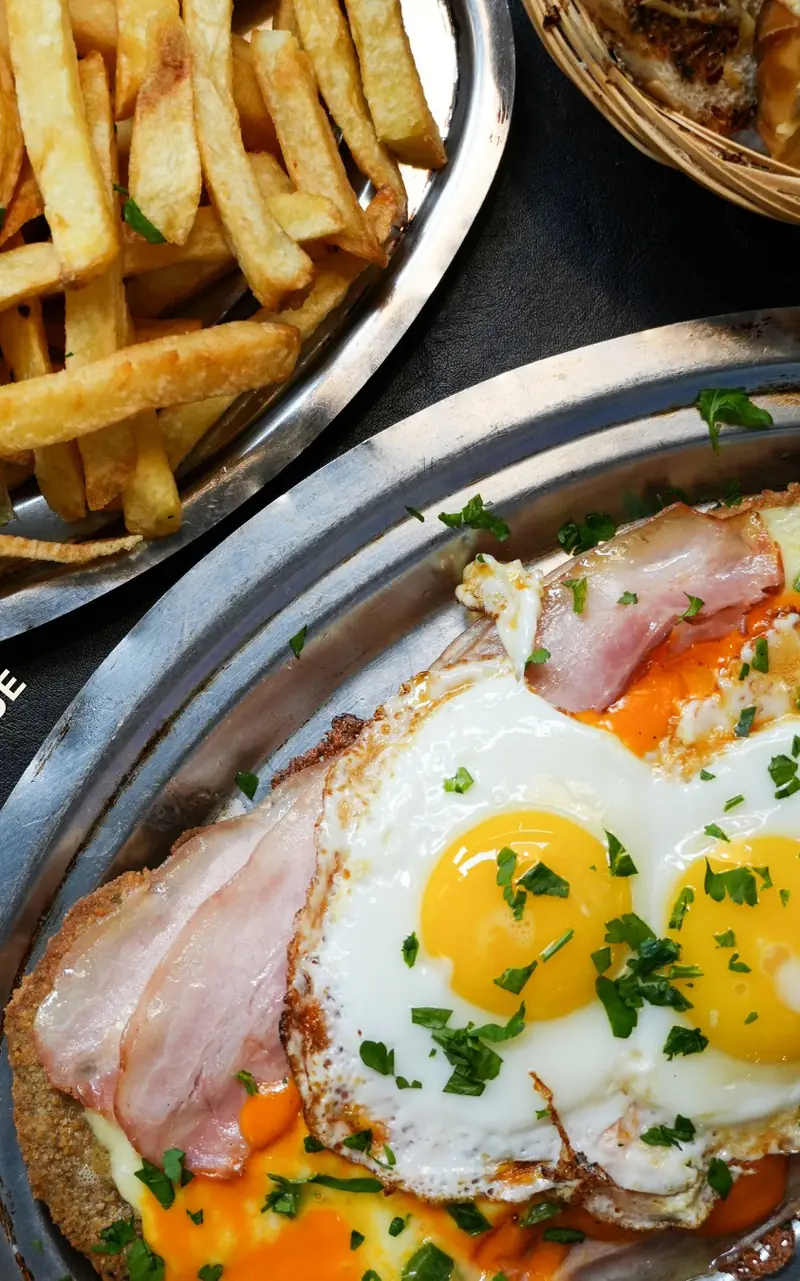
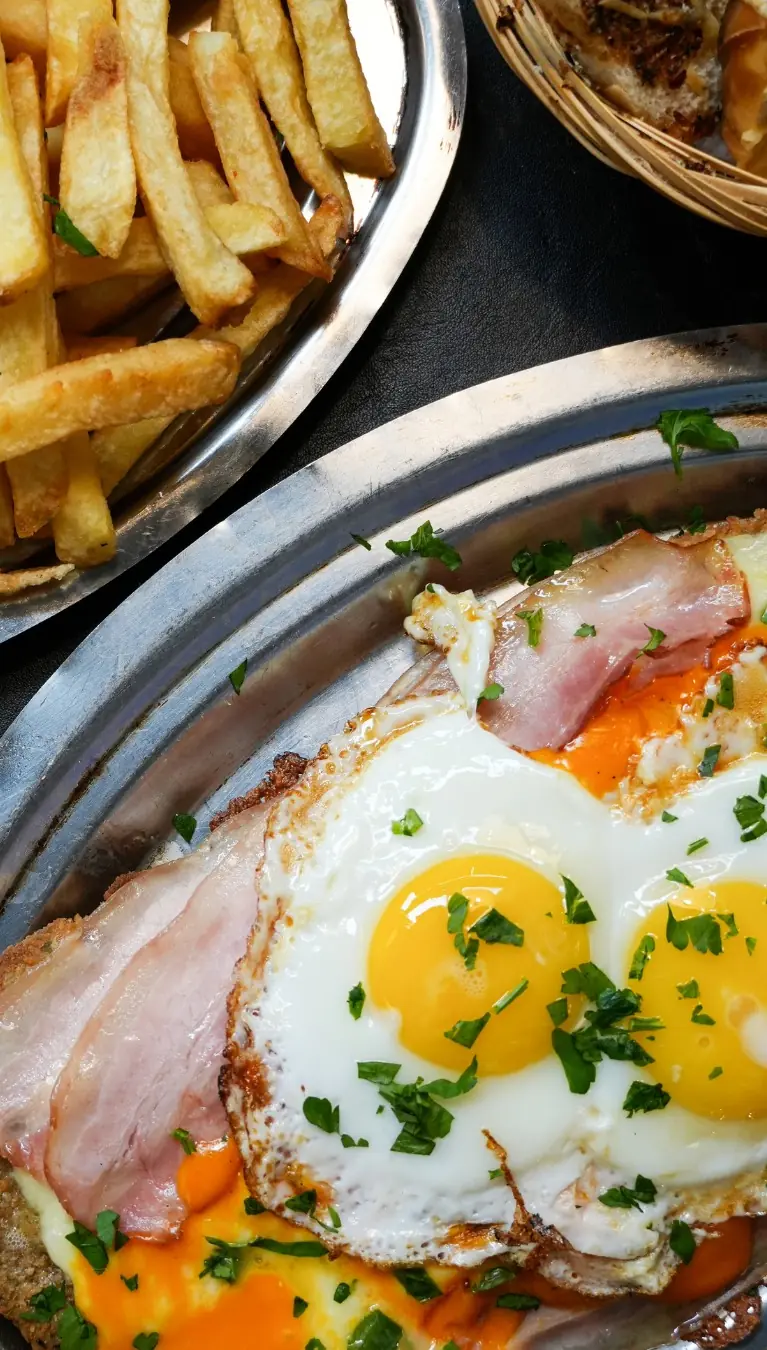
Cancha sin zoom y de tamaño fijo, talón que se corta hacia abajo, sin marcador, horarios 8:00 a 24:00, foto de la Milanesa Parque sin texto
Claude-Session: https://claude.ai/code/session_018KHp4jUhkHtijVhNrcKuqc

diff --git a/css/style.css b/css/style.css
@@ -294,23 +294,22 @@ ul { margin: 0; padding: 0; list-style: none; }
 .cancha__lineas--h { display: none; }
 .cancha__flecha { stroke: rgba(255,255,255,.55); stroke-dasharray: 7 8; }
 .cancha__fichas { position: absolute; inset: 0; }
-.ficha { position: absolute; left: var(--mx); top: var(--my); width: 52px; height: 52px; margin: -26px 0 0 -26px; padding: 0; border: 3px solid var(--crema); border-radius: 50%; background: #2a3b28 center / cover no-repeat; cursor: pointer; box-shadow: 0 6px 14px rgba(0,0,0,.45); transition: transform .25s cubic-bezier(.3, 1.4, .5, 1), border-color .2s, box-shadow .2s; }
+.ficha { position: absolute; left: var(--mx); top: var(--my); width: 52px; height: 52px; margin: -26px 0 0 -26px; padding: 0; border: 3px solid var(--crema); border-radius: 50%; background: #2a3b28 center / cover no-repeat; cursor: pointer; box-shadow: 0 6px 14px rgba(0,0,0,.45); transition: border-color .2s, box-shadow .2s; }
 .ficha__n { position: absolute; right: -9px; bottom: -7px; min-width: 24px; height: 24px; padding: 0 4px; border-radius: 12px; background: var(--oro); color: var(--noche); font: 400 14px/24px var(--f-tit); text-align: center; }
 .ficha__nom { display: none; }
-.ficha.activa { border-color: var(--oro); transform: scale(1.16); box-shadow: 0 0 0 5px rgba(201,162,74,.35), 0 8px 18px rgba(0,0,0,.5); }
-.ficha:active { transform: scale(.94); }
+.ficha.activa { border-color: var(--oro); box-shadow: 0 0 0 5px rgba(201,162,74,.4), 0 6px 14px rgba(0,0,0,.45); }
 .js .ficha { opacity: 0; scale: .4; }
-.js .cancha.visto .ficha { opacity: 1; scale: 1; transition: opacity .4s ease calc(var(--i) * 55ms), scale .5s cubic-bezier(.3, 1.5, .5, 1) calc(var(--i) * 55ms), transform .25s cubic-bezier(.3, 1.4, .5, 1), border-color .2s, box-shadow .2s; }
+.js .cancha.visto .ficha { opacity: 1; scale: 1; transition: opacity .4s ease calc(var(--i) * 55ms), scale .5s cubic-bezier(.3, 1.5, .5, 1) calc(var(--i) * 55ms), border-color .2s, box-shadow .2s; }
 .js .cancha__flecha { stroke-dashoffset: 400; stroke-dasharray: 400; }
 .js .cancha.visto .cancha__flecha { stroke-dashoffset: 0; transition: stroke-dashoffset 1.4s ease .9s; }
-.ficha-plato { background: var(--crema); color: var(--noche); border-radius: 6px; overflow: hidden; display: grid; grid-template-columns: 116px minmax(0, 1fr); box-shadow: var(--sombra); min-height: 214px; }
+.ficha-plato { background: var(--crema); color: var(--noche); border-radius: 6px; overflow: hidden; display: grid; grid-template-columns: 116px minmax(0, 1fr); box-shadow: var(--sombra); height: 250px; }
 .ficha-plato__foto { position: relative; background: #d8ccb6; }
 .ficha-plato__foto img { position: absolute; inset: 0; width: 100%; height: 100%; object-fit: cover; object-position: 50% 62%; transition: opacity .3s; }
 .ficha-plato__foto img.cambia { opacity: 0; }
 .ficha-plato__num { position: absolute; left: 10px; top: 10px; min-width: 40px; height: 40px; border-radius: 20px; background: var(--oro); font: 400 22px/40px var(--f-tit); text-align: center; color: var(--noche); }
 .ficha-plato__txt { padding: 16px 16px 14px; display: flex; flex-direction: column; gap: 4px; min-width: 0; }
 .ficha-plato__pos { font: 800 12px/1.3 var(--f-txt); letter-spacing: .18em; text-transform: uppercase; color: var(--bordo); }
-.ficha-plato__nom { font: 400 26px/1.02 var(--f-tit); text-transform: uppercase; overflow-wrap: anywhere; }
+.ficha-plato__nom { font: 400 26px/1.02 var(--f-tit); text-transform: uppercase; overflow-wrap: anywhere; display: -webkit-box; -webkit-line-clamp: 2; -webkit-box-orient: vertical; overflow: hidden; min-height: 2.04em; }
 .ficha-plato__desc { font-size: 14.5px; line-height: 1.5; color: var(--tinta); display: -webkit-box; -webkit-line-clamp: 3; -webkit-box-orient: vertical; overflow: hidden; min-height: 4.5em; }
 .ficha-plato__acc { margin-top: auto; display: flex; align-items: center; justify-content: space-between; gap: 10px; flex-wrap: wrap; padding-top: 8px; }
 .ficha-plato__precio { font-weight: 800; font-size: 15px; color: var(--verde); }
@@ -321,19 +320,20 @@ ul { margin: 0; padding: 0; list-style: none; }
 .suplente { flex: 0 0 auto; display: flex; align-items: center; gap: 10px; min-height: 56px; padding: 6px 16px 6px 6px; border-radius: 999px; border: 1.5px solid rgba(242,235,221,.35); background: rgba(14,13,12,.35); color: var(--crema); cursor: pointer; font-weight: 700; font-size: 15px; scroll-snap-align: start; transition: border-color .2s, background-color .2s; }
 .suplente img { width: 44px; height: 44px; border-radius: 50%; object-fit: cover; }
 .suplente.activa { border-color: var(--oro); background: rgba(201,162,74,.18); }
-@media (hover: hover) { .ficha:hover { transform: scale(1.12); border-color: var(--oro); } .suplente:hover { border-color: var(--crema); } }
+@media (hover: hover) { .ficha:hover { border-color: var(--oro); } .suplente:hover { border-color: var(--crema); } }
 @media (min-width: 640px) { .ficha-plato { grid-template-columns: 200px minmax(0, 1fr); } .ficha-plato__nom { font-size: 30px; } }
 @media (min-width: 900px) {
-  .formacion__in { grid-template-columns: minmax(0, 1.55fr) minmax(0, 1fr); gap: 40px; align-items: stretch; }
+  .formacion__in { grid-template-columns: minmax(0, 1.55fr) minmax(0, 1fr); gap: 40px; align-items: start; }
+  .cancha { align-self: start; }
   .cancha { aspect-ratio: 1000 / 640; }
   .cancha__lineas--v { display: none; } .cancha__lineas--h { display: block; }
   .ficha { left: var(--dx); top: var(--dy); width: 66px; height: 66px; margin: -33px 0 0 -33px; }
   .ficha__n { width: 28px; height: 28px; line-height: 28px; font-size: 16px; border-radius: 14px; }
   .ficha__nom { display: block; position: absolute; left: 50%; top: calc(100% + 8px); transform: translateX(-50%); width: 130px; text-align: center; font: 700 14px/1.2 var(--f-txt); color: #fff; text-shadow: 0 1px 3px rgba(0,0,0,.8); pointer-events: none; }
-  .ficha-plato { grid-template-columns: 1fr; grid-template-rows: minmax(0, 1fr) auto; }
-  .ficha-plato__foto { min-height: 260px; }
-  .ficha-plato__txt { padding: 22px 26px 24px; gap: 8px; min-height: 230px; }
-  .ficha-plato__nom { font-size: 38px; }
+  .ficha-plato { grid-template-columns: 1fr; grid-template-rows: minmax(0, 1fr) 290px; height: auto; aspect-ratio: auto; align-self: stretch; }
+  .ficha-plato__foto { min-height: 0; }
+  .ficha-plato__txt { padding: 22px 26px 24px; gap: 8px; height: 290px; }
+  .ficha-plato__nom { font-size: 34px; }
   .ficha-plato__desc { font-size: 16px; }
 }
 
@@ -433,7 +433,7 @@ ul { margin: 0; padding: 0; list-style: none; }
 .entrada__artista { font: 400 clamp(32px, 8vw, 54px)/1 var(--f-tit); text-transform: uppercase; overflow-wrap: anywhere; }
 .entrada__fecha { font-weight: 700; font-size: 16px; }
 .entrada__lugar { font-size: 13.5px; opacity: .92; }
-.entrada__talon { position: relative; flex: 0 0 104px; border-left: 3px dashed rgba(242,235,221,.75); display: flex; flex-direction: column; align-items: center; justify-content: center; gap: 2px; background: rgba(0,0,0,.16); border-radius: 0 8px 8px 0; cursor: grab; touch-action: pan-y; user-select: none; -webkit-user-select: none; transition: transform .45s cubic-bezier(.3, .8, .3, 1), opacity .3s; }
+.entrada__talon { position: relative; flex: 0 0 104px; border-left: 3px dashed rgba(242,235,221,.75); display: flex; flex-direction: column; align-items: center; justify-content: center; gap: 2px; background: rgba(0,0,0,.16); border-radius: 0 8px 8px 0; cursor: grab; touch-action: none; user-select: none; -webkit-user-select: none; transform-origin: 0 0; transition: transform .45s cubic-bezier(.3, .8, .3, 1), opacity .35s; }
 .entrada__talon:active { cursor: grabbing; }
 .entrada__talon-k { font: 800 12px/1.2 var(--f-txt); letter-spacing: .16em; text-transform: uppercase; }
 .entrada__talon b { font: 400 44px/1 var(--f-tit); }
@@ -442,7 +442,9 @@ ul { margin: 0; padding: 0; list-style: none; }
 .entrada::before, .entrada::after { content: ''; position: absolute; right: 90px; width: 26px; height: 26px; border-radius: 50%; background: var(--noche); }
 .entrada::before { top: -13px; } .entrada::after { bottom: -13px; }
 .entrada__talon.arrastrando { transition: none; }
-.entrada__talon.cortado { transform: translate(60px, 30px) rotate(14deg); opacity: 0; }
+.entrada__talon.cortado { transform: translateY(70px) rotate(24deg); opacity: 0; transition: transform .5s cubic-bezier(.5, 0, .75, 0), opacity .45s ease .05s; }
+.entrada__talon.vuelve { animation: talonVuelve .45s ease both; }
+@keyframes talonVuelve { from { opacity: 0; transform: translateY(-8px); } to { opacity: 1; transform: none; } }
 .entrada__acc { display: flex; flex-wrap: wrap; align-items: center; gap: 12px 18px; }
 .entrada__pista { font-size: 14px; color: var(--gris); }
 @media (min-width: 900px) {
@@ -510,17 +512,10 @@ ul { margin: 0; padding: 0; list-style: none; }
 /* ================= DÓNDE + MARCADOR ================= */
 .donde { background: var(--noche); }
 .donde__in { display: grid; gap: 44px; }
-.marcador { background: #070706; border: 2px solid #2a271f; border-radius: 8px; padding: 20px 18px; display: flex; flex-direction: column; align-items: center; gap: 10px; box-shadow: inset 0 0 0 6px #121109; cursor: default; }
-.marcador__eq { display: grid; grid-template-columns: 1fr 44px 1fr; width: 100%; max-width: 380px; text-align: center; font: 800 13px/1.2 var(--f-txt); letter-spacing: .2em; text-transform: uppercase; color: var(--gris); }
-.marcador__goles { display: grid; grid-template-columns: 1fr 44px 1fr; width: 100%; max-width: 380px; align-items: center; text-align: center; }
-.marcador__goles b { font: 400 48px/1 var(--f-tit); color: #ffb347; }
-.marcador__n { font: 400 clamp(64px, 18vw, 100px)/1.12 var(--f-tit); color: #ffb347; background: #1d1b15; border-radius: 4px; text-shadow: 0 0 14px rgba(255,179,71,.45); display: block; }
-.marcador__n.gira { animation: gira .5s ease; }
-@keyframes gira { 0% { transform: rotateX(0); } 50% { transform: rotateX(90deg); } 100% { transform: rotateX(0); } }
-.marcador__estado { font-weight: 700; font-size: 16px; display: flex; align-items: center; gap: 10px; min-height: 1.6em; text-align: center; }
-.marcador__estado::before { content: ''; width: 10px; height: 10px; border-radius: 50%; background: #5fd06b; flex: none; }
-.marcador__estado.cerrado::before { background: var(--oro); }
-.horarios { margin-top: 26px; display: grid; gap: 0; }
+.donde__estado { font-weight: 700; font-size: 17px; display: flex; align-items: center; gap: 10px; min-height: 1.6em; margin-top: 4px; }
+.donde__estado::before { content: ''; width: 10px; height: 10px; border-radius: 50%; background: #5fd06b; flex: none; }
+.donde__estado.cerrado::before { background: var(--oro); }
+.horarios { margin-top: 18px; display: grid; gap: 0; }
 .horarios li { display: flex; justify-content: space-between; gap: 16px; padding: 11px 0; border-bottom: 1px solid rgba(242,235,221,.12); font-size: 16px; }
 .horarios li.hoy { color: var(--oro); font-weight: 700; }
 .donde__dire { font-size: 17px; margin-bottom: 18px; color: #e4dccd; }
@@ -532,7 +527,6 @@ ul { margin: 0; padding: 0; list-style: none; }
 .donde__tel a { color: var(--crema); font-weight: 700; }
 @media (min-width: 900px) {
   .donde__in { grid-template-columns: minmax(0, 1fr) minmax(0, 1.1fr); gap: clamp(48px, 6vw, 96px); align-items: start; }
-  .marcador { padding: 28px; }
 }
 
 /* ================= FOOTER ================= */

diff --git a/js/app.js b/js/app.js
@@ -124,31 +124,21 @@ function arrastre() { $$('[data-arrastre]').forEach(arrastrable); }
 // =====================================================================
 // HORARIOS, ESTADO Y MARCADOR
 // =====================================================================
+// 24 h y siempre con minutos: "8:00 a 24:00"; la medianoche al cierre se lee "24:00"
+const hora = (h, cierre = false) => (h === '00:00' && cierre) ? '24:00' : h.replace(/^0([1-9]):/, '$1:');
 function horarios() {
   const H = K.config.horarios;
   const dias = [['mar', 'Martes'], ['mie', 'Miércoles'], ['jue', 'Jueves'], ['vie', 'Viernes'], ['sab', 'Sábado'], ['dom', 'Domingo'], ['lun', 'Lunes']];
   const hoy = ['dom', 'lun', 'mar', 'mie', 'jue', 'vie', 'sab'][ahoraBA().dow];
-  const fmt = (h) => h === '00:00' ? '00' : h.replace(/^0([1-9])(?=:)/, '$1').replace(/^(\d{1,2}):00$/, '$1');
-  $('[data-horarios]').innerHTML = dias.map(([k, n]) => `<li class="${k === hoy ? 'hoy' : ''}"><span>${n}${k === hoy ? ' · hoy' : ''}</span><span>${(H[k] || []).length ? H[k].map(f => f.map(fmt).join(' a ')).join(' · ') : 'Cerrado'}</span></li>`).join('');
-  const est = $('[data-estado]'); const mEst = $('[data-marcador-estado]');
+  $('[data-horarios]').innerHTML = dias.map(([k, n]) => `<li class="${k === hoy ? 'hoy' : ''}"><span>${n}${k === hoy ? ' · hoy' : ''}</span><span>${(H[k] || []).length ? H[k].map(([d, c]) => `${hora(d)} a ${hora(c, true)}`).join(' · ') : 'Cerrado'}</span></li>`).join('');
+  const est = $('[data-estado]'); const dEst = $('[data-donde-estado]');
   const pintar = () => {
-    const s = K.abierto(); const a = ahoraBA();
-    est.hidden = false; est.classList.toggle('cerrado', !s.abierto);
-    est.textContent = s.abierto ? `Abierto ahora · cierra ${s.cierra}` : s.abre ? `Cerrado · abre a las ${s.abre}` : 'Cerrado hoy';
-    const tiempo = a.min < 16 * 60 && a.min >= 5 * 60 ? '1º tiempo' : '2º tiempo';
-    mEst.classList.toggle('cerrado', !s.abierto);
-    mEst.textContent = s.abierto ? `Abierto · ${tiempo} · cierra ${s.cierra}` : s.abre ? `Entretiempo · volvemos a las ${s.abre}` : 'Entretiempo · volvemos mañana';
-    marcador(s.abierto);
+    const s = K.abierto();
+    const txt = s.abierto ? `Abierto ahora · cierra a las ${hora(s.cierra, true)}` : s.abre ? `Cerrado ahora · abre a las ${hora(s.abre)}` : 'Cerrado hoy';
+    est.hidden = false; est.classList.toggle('cerrado', !s.abierto); est.textContent = txt;
+    dEst.classList.toggle('cerrado', !s.abierto); dEst.textContent = txt;
   };
   pintar(); setInterval(pintar, 60_000);
-}
-let golesPintados = null;
-function marcador(abierto) {
-  const g = abierto ? 1 : 0; if (golesPintados === g) return; golesPintados = g;
-  const box = $('[data-marcador]'); const a = $('[data-gol-a]'); const b = $('[data-gol-b]');
-  const poner = () => { a.textContent = String(g); b.textContent = '0'; if (!reduce) { a.classList.remove('gira'); void a.offsetWidth; a.classList.add('gira'); } };
-  if (box.classList.contains('visto')) { poner(); return; }
-  new IntersectionObserver((es, o) => { if (es[0].isIntersecting) { o.disconnect(); setTimeout(poner, 500); } }, { threshold: .5 }).observe(box);
 }
 
 // =====================================================================
@@ -307,21 +297,23 @@ function pintarShow() {
 function reservarShow() { K.reservas?.abrir({ fecha: showFecha || proximoDia([6], 1290), hora: '21:30', personas: 2 }); }
 function show() {
   $('[data-reservar-show]').addEventListener('click', reservarShow);
+  // el talón se corta tirando hacia abajo: gira desde la línea punteada y cae (un toque o Enter también lo corta)
   const talon = $('[data-talon]');
-  let x0 = 0, dx = 0, activo = false, id = null, cortando = false;
+  let y0 = 0, dy = 0, activo = false, id = null, cortando = false;
+  const volver = () => { talon.classList.remove('arrastrando'); talon.style.transform = ''; };
   const cortar = () => {
-    if (cortando) return; cortando = true; talon.classList.remove('arrastrando'); talon.style.transform = ''; talon.classList.add('cortado');
-    setTimeout(reservarShow, reduce ? 0 : 320);
-    setTimeout(() => { talon.classList.remove('cortado'); cortando = false; }, 1500);
+    if (cortando) return; cortando = true; talon.classList.remove('arrastrando'); talon.style.transform = '';
+    void talon.offsetWidth; talon.classList.add('cortado');
+    setTimeout(reservarShow, reduce ? 0 : 380);
+    setTimeout(() => { talon.classList.remove('cortado'); talon.classList.add('vuelve'); setTimeout(() => talon.classList.remove('vuelve'), 500); cortando = false; }, 1600);
   };
-  talon.addEventListener('pointerdown', (e) => { if (e.button > 0) return; activo = true; id = e.pointerId; x0 = e.clientX; dx = 0; try { talon.setPointerCapture(id); } catch (_) { /* nada */ } });
+  talon.addEventListener('pointerdown', (e) => { if (e.button > 0 || cortando) return; activo = true; id = e.pointerId; y0 = e.clientY; dy = 0; try { talon.setPointerCapture(id); } catch (_) { /* nada */ } });
   talon.addEventListener('pointermove', (e) => {
-    if (!activo || e.pointerId !== id) return; dx = Math.max(0, e.clientX - x0);
-    if (dx > 3) { talon.classList.add('arrastrando'); talon.style.transform = `translateX(${dx}px) rotate(${dx * .08}deg)`; }
+    if (!activo || e.pointerId !== id) return; dy = Math.max(0, Math.min(40, e.clientY - y0));
+    if (dy > 2) { talon.classList.add('arrastrando'); talon.style.transform = `rotate(${dy * .35}deg)`; }
   });
-  const soltar = () => { if (!activo) return; activo = false; if (dx > 46 || dx <= 3) cortar(); else { talon.classList.remove('arrastrando'); talon.style.transform = ''; } };
-  talon.addEventListener('pointerup', soltar);
-  talon.addEventListener('pointercancel', () => { activo = false; talon.classList.remove('arrastrando'); talon.style.transform = ''; });
+  talon.addEventListener('pointerup', () => { if (!activo) return; activo = false; if (dy > 22 || dy <= 2) cortar(); else volver(); });
+  talon.addEventListener('pointercancel', () => { activo = false; volver(); });
   talon.addEventListener('keydown', (e) => { if (e.key === 'Enter' || e.key === ' ') { e.preventDefault(); cortar(); } });
   $('[data-reservar-mediodia]').addEventListener('click', () => K.reservas?.abrir({ fecha: proximoDia([2, 3, 4, 5], 14 * 60), hora: '12:30', personas: 2 }));
 }

diff --git a/index.html b/index.html
@@ -33,7 +33,7 @@
   })();
 </script>
 <link rel="stylesheet" href="kit/kit.css?v=1">
-<link rel="stylesheet" href="css/style.css?v=1">
+<link rel="stylesheet" href="css/style.css?v=2">
 <script type="application/ld+json">
 {"@context":"https://schema.org","@type":"Restaurant","name":"Bodegón Parque","servesCuisine":"Bodegón argentino","address":{"@type":"PostalAddress","streetAddress":"Marcos Sastre 3258","addressLocality":"Villa del Parque, CABA","addressCountry":"AR"},"telephone":"+54 9 11 6853-5207","acceptsReservations":"True","openingHours":["Tu-Sa 08:00-24:00","Su 08:00-17:00","Mo 17:00-00:30"],"aggregateRating":{"@type":"AggregateRating","ratingValue":"4.2","reviewCount":"1228"},"sameAs":["https://www.instagram.com/bodegonparque/"]}
 </script>
@@ -122,7 +122,7 @@
   </div>
   <div class="hero__cinta papel-verde">
     <span class="estado" data-estado hidden></span>
-    <span class="hero__horas hero__horas--largo">Mar a sáb 8 a 00 <i>●</i> Dom 8 a 17 <i>●</i> Lun 17 a 00:30</span><span class="hero__horas hero__horas--corto">Mar–sáb 8–00 · Dom 8–17 · Lun 17–00:30</span>
+    <span class="hero__horas hero__horas--largo">Mar a sáb de 8:00 a 24:00 <i>●</i> Dom de 8:00 a 17:00 <i>●</i> Lun de 17:00 a 00:30</span><span class="hero__horas hero__horas--corto">Mar a sáb 8:00 a 24:00 · Dom 8:00 a 17:00<br>Lun 17:00 a 00:30</span>
     <span class="hero__dire">Marcos Sastre 3258 · adentro del Club Parque</span>
   </div>
 </section>
@@ -195,7 +195,7 @@
         <div class="cancha__fichas" data-fichas></div>
       </div>
       <aside class="ficha-plato" aria-live="polite" data-ficha-plato>
-        <div class="ficha-plato__foto"><img src="img/mila-parque-800.webp" alt="" width="800" height="1281" loading="lazy" decoding="async"><span class="ficha-plato__num">10</span></div>
+        <div class="ficha-plato__foto"><img src="img/mila-parque-800.webp" alt="" width="767" height="1350" loading="lazy" decoding="async"><span class="ficha-plato__num">10</span></div>
         <div class="ficha-plato__txt">
           <p class="ficha-plato__pos">Enganche</p>
           <h3 class="ficha-plato__nom">Milanesa Parque</h3>
@@ -274,7 +274,7 @@
       </div>
       <div class="entrada__acc">
         <button type="button" class="btn btn--bordo btn--grande" data-reservar-show>Reservá para el show</button>
-        <span class="entrada__pista"><span class="solo-mouse">O arrastrá el talón para cortarlo.</span><span class="solo-dedo">O deslizá el talón para cortarlo.</span></span>
+        <span class="entrada__pista"><span class="solo-mouse">O tirá del talón hacia abajo para cortarlo.</span><span class="solo-dedo">O tirá del talón hacia abajo para cortarlo.</span></span>
       </div>
     </div>
   </div>
@@ -305,7 +305,7 @@
   </div>
   <div class="galeria" data-galeria>
     <figure class="g polaroid"><img src="img/salon-600.webp" srcset="img/salon-600.webp 600w, img/salon-1100.webp 1100w" sizes="(min-width: 900px) 460px, 86vw" alt="El salón con mesas blancas y lámparas" width="600" height="512" loading="lazy" decoding="async"><figcaption>El salón</figcaption></figure>
-    <figure class="g polaroid"><img src="img/mila-parque-800.webp" alt="La Milanesa Parque con huevos fritos y panceta" width="800" height="1281" loading="lazy" decoding="async"><figcaption>La Milanesa Parque</figcaption></figure>
+    <figure class="g polaroid"><img src="img/mila-parque-800.webp" alt="La Milanesa Parque con huevos fritos y panceta" width="767" height="1350" loading="lazy" decoding="async"><figcaption>La Milanesa Parque</figcaption></figure>
     <figure class="g polaroid"><img src="img/fachada-600.webp" srcset="img/fachada-600.webp 600w, img/fachada-1100.webp 1100w" sizes="(min-width: 900px) 520px, 86vw" alt="El toldo rojo de la entrada" width="600" height="295" loading="lazy" decoding="async"><figcaption>Marcos Sastre 3258</figcaption></figure>
     <figure class="g polaroid"><img src="img/trofeos-600.webp" alt="Copas y trofeos del club" width="600" height="750" loading="lazy" decoding="async"><figcaption>Las copas del club</figcaption></figure>
     <figure class="g polaroid"><img src="img/llena-600.webp" alt="El salón lleno en una noche de show" width="600" height="852" loading="lazy" decoding="async"><figcaption>Noche de show</figcaption></figure>
@@ -319,11 +319,7 @@
   <div class="contenedor donde__in">
     <div class="donde__izq">
       <h2 class="titulo" id="donde-t"><span class="linea"><span>Dónde</span></span> <span class="linea"><span>jugamos</span></span></h2>
-      <div class="marcador reveal" data-marcador>
-        <div class="marcador__eq"><span>Bodegón</span><span></span><span>Hambre</span></div>
-        <div class="marcador__goles"><span class="marcador__n" data-gol-a>0</span><b>:</b><span class="marcador__n" data-gol-b>0</span></div>
-        <p class="marcador__estado" data-marcador-estado>&nbsp;</p>
-      </div>
+      <p class="donde__estado reveal" data-donde-estado>&nbsp;</p>
       <ul class="horarios reveal" data-horarios></ul>
     </div>
     <div class="donde__der reveal">
@@ -351,6 +347,6 @@
   <p class="pie__credito">Sitio desarrollado por <a href="https://alejomfernandez.com.ar" target="_blank" rel="noopener">Alejo Martín Fernández</a></p>
 </footer>
 
-<script type="module" src="js/app.js?v=1"></script>
+<script type="module" src="js/app.js?v=2"></script>
 </body>
 </html>
